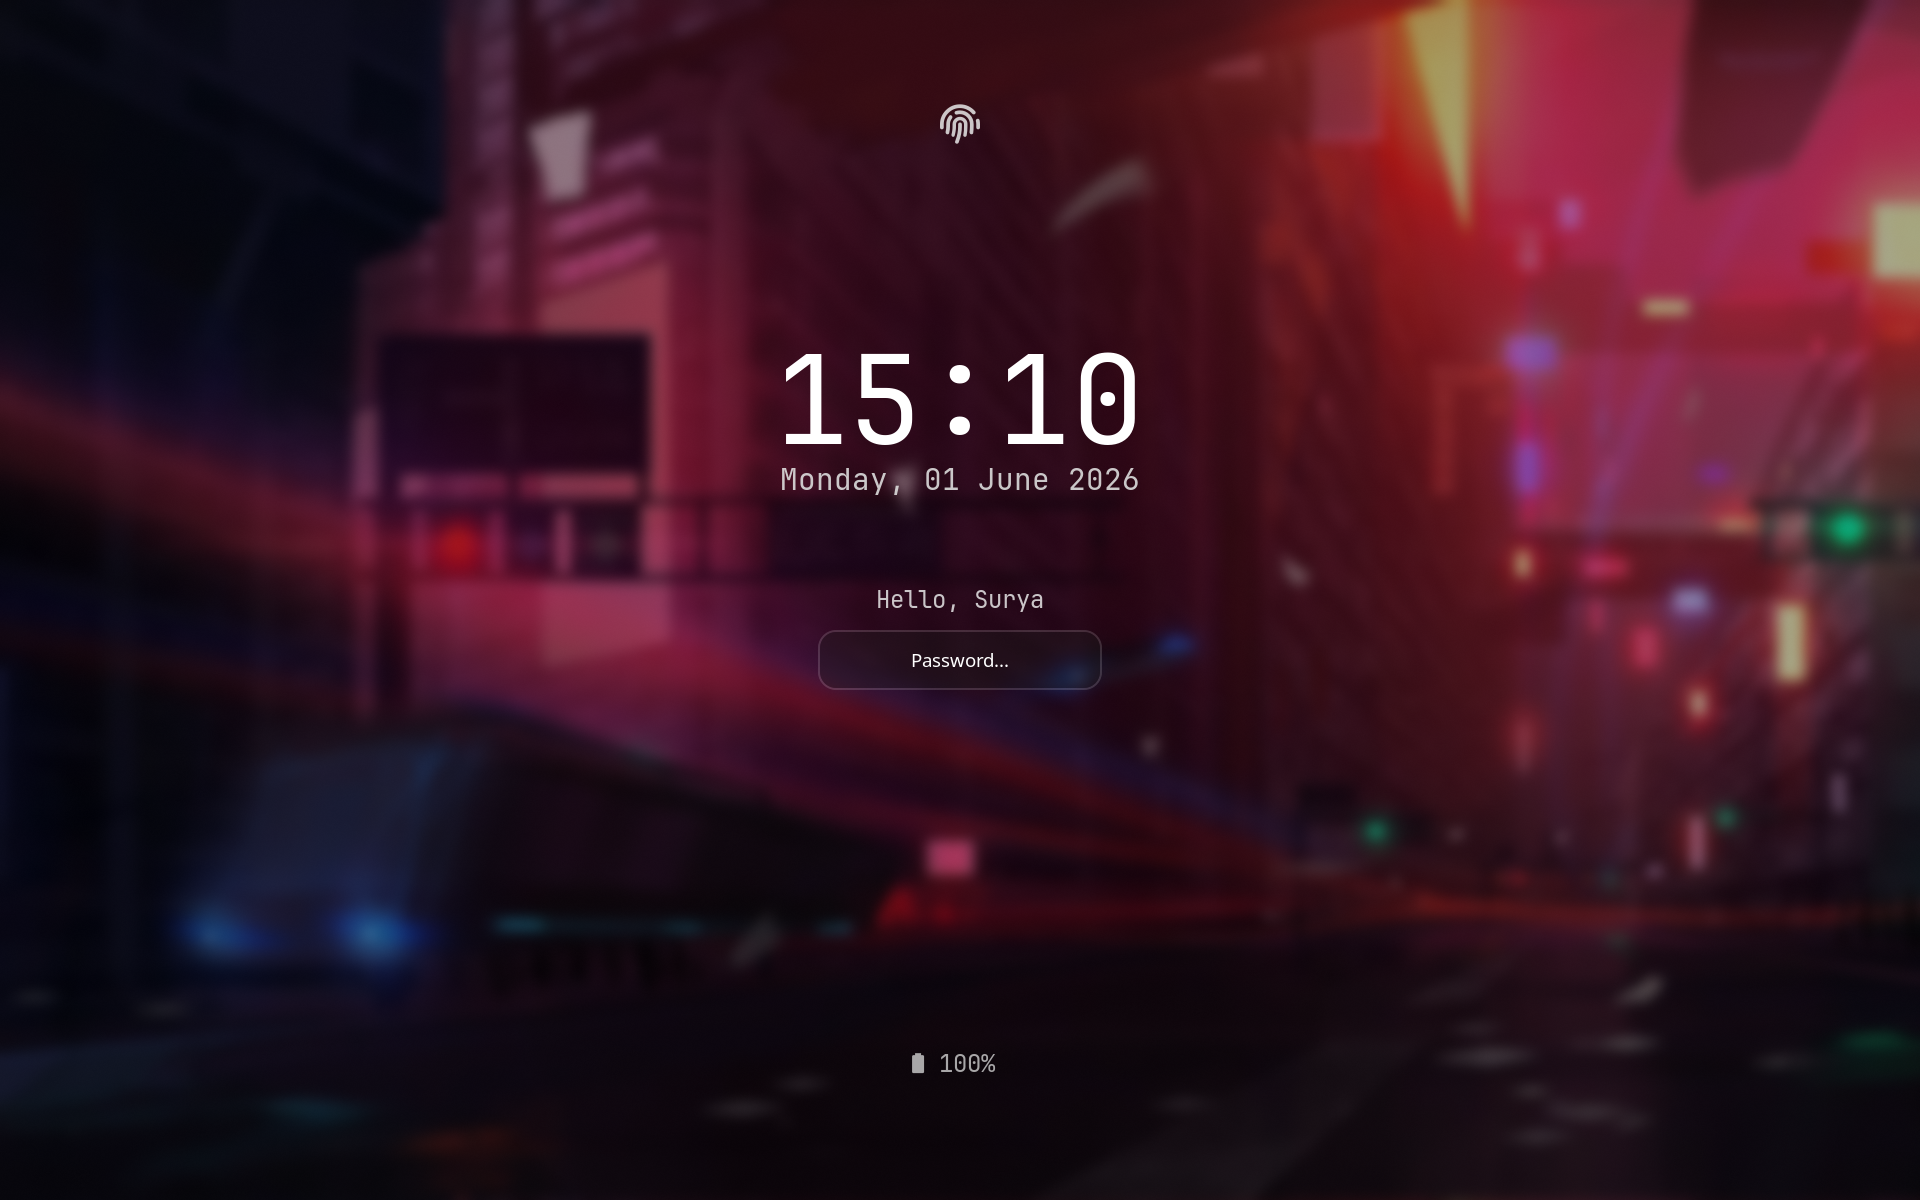
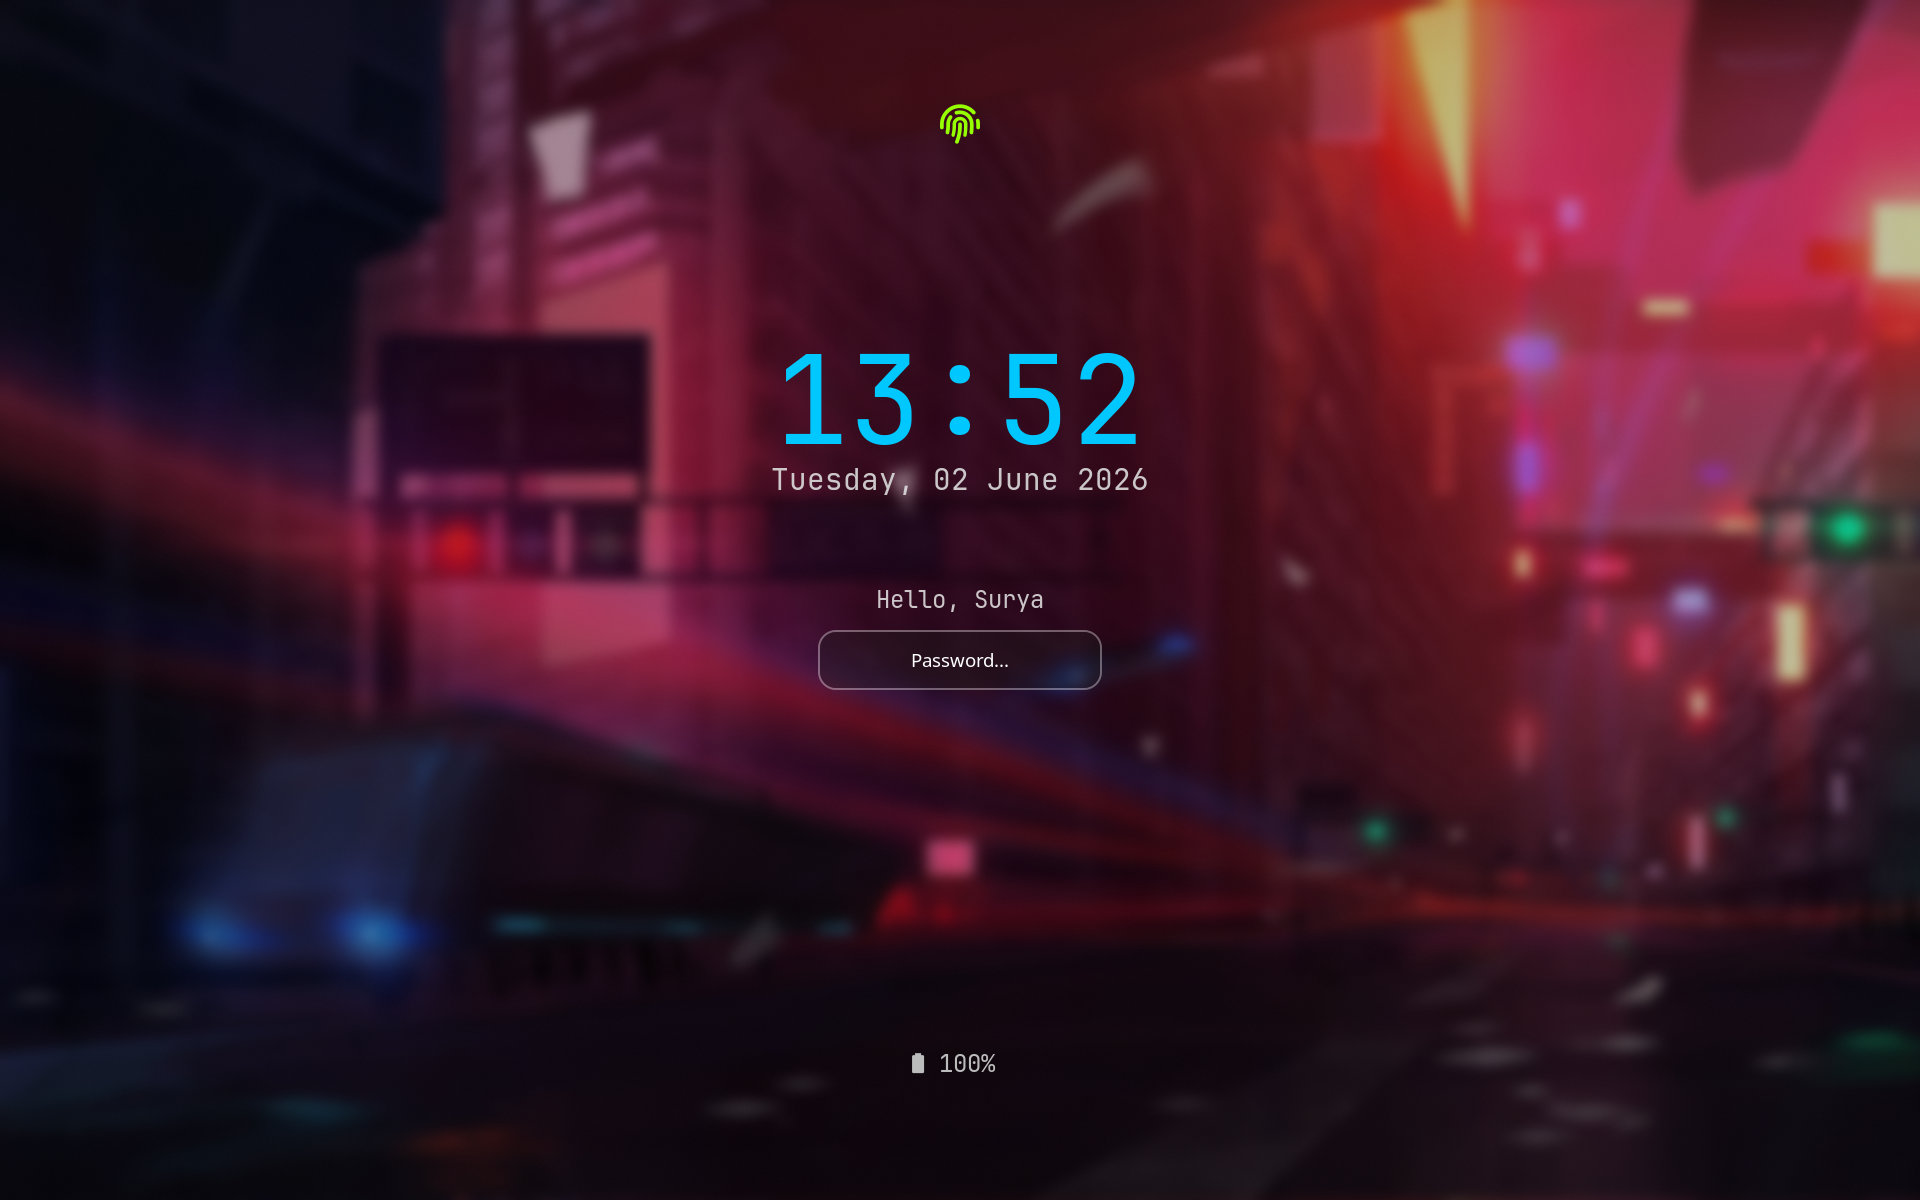
json returns for waybar scripts

diff --git a/README.md b/README.md
@@ -16,27 +16,35 @@ Hope you like it! Look below for pics of my desktop.
 > I'm on Arch, btw
 
 ![Lock Screen](imgs/lock_screen.png)
+<br/>
 *Lock Screen*
 
 ![Home Screen](imgs/home_screen.png)
+<br/>
 *Home Screen*
 
 ![Tmux](imgs/tmux.png)
+<br/>
 *My tmux workspace*
 
 ![Fuzzel](imgs/fuzzel_apps.png)
+<br/>
 *Fuzzel App Menu*
 
 ![mpris](imgs/waybar_mpris.png)
+<br/>
 *Waybar media manager*
 
 ![calendar](imgs/waybar_calendar.png)
+<br/>
 *Waybar calendar popup*
 
 ![bluetooth](imgs/waybar_bluetooth.png)
+<br/>
 *Waybar bluetooth menu*
 
 ![wifi](imgs/waybar_wifi.png)
+<br/>
 *Waybar WiFi menu*
 
 Surya Turaga